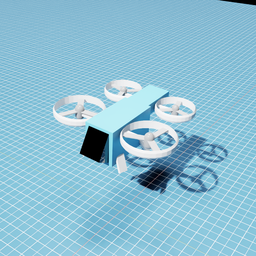
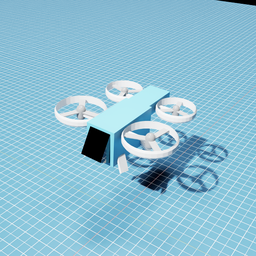
Comportamiento errático del aerotaxi

diff --git a/ov/fleet/UAM_aerotaxi_copia/UAM_aerotaxi.py b/ov/fleet/UAM_aerotaxi_copia/UAM_aerotaxi.py
@@ -446,11 +446,11 @@ class UAM_minidrone(BehaviorScript):
 
         # Apply forces and torques to all UAV links
         # forces = np.array([FD, FT_NE, FT_NW, FT_SE, FT_SW])
-        forces = np.array([FD, [0, 0, 18375], [0, 0, 18375], [0, 0, 3676], [0, 0, 3676]])
+        forces = np.array([FD, [0, 0, 81670], [0, 0, 81670], [0, 0, 16340], [0, 0, 16340]])
 
         # torques = np.array([body_link_torque, zero_torque, zero_torque, zero_torque, zero_torque])
         torques = np.array([zero_torque, zero_torque, zero_torque, zero_torque, zero_torque])
-        
+
         self.rigid_prim_view.apply_forces_and_torques_at_pos(forces=forces, torques=torques)
         print(forces)
 
